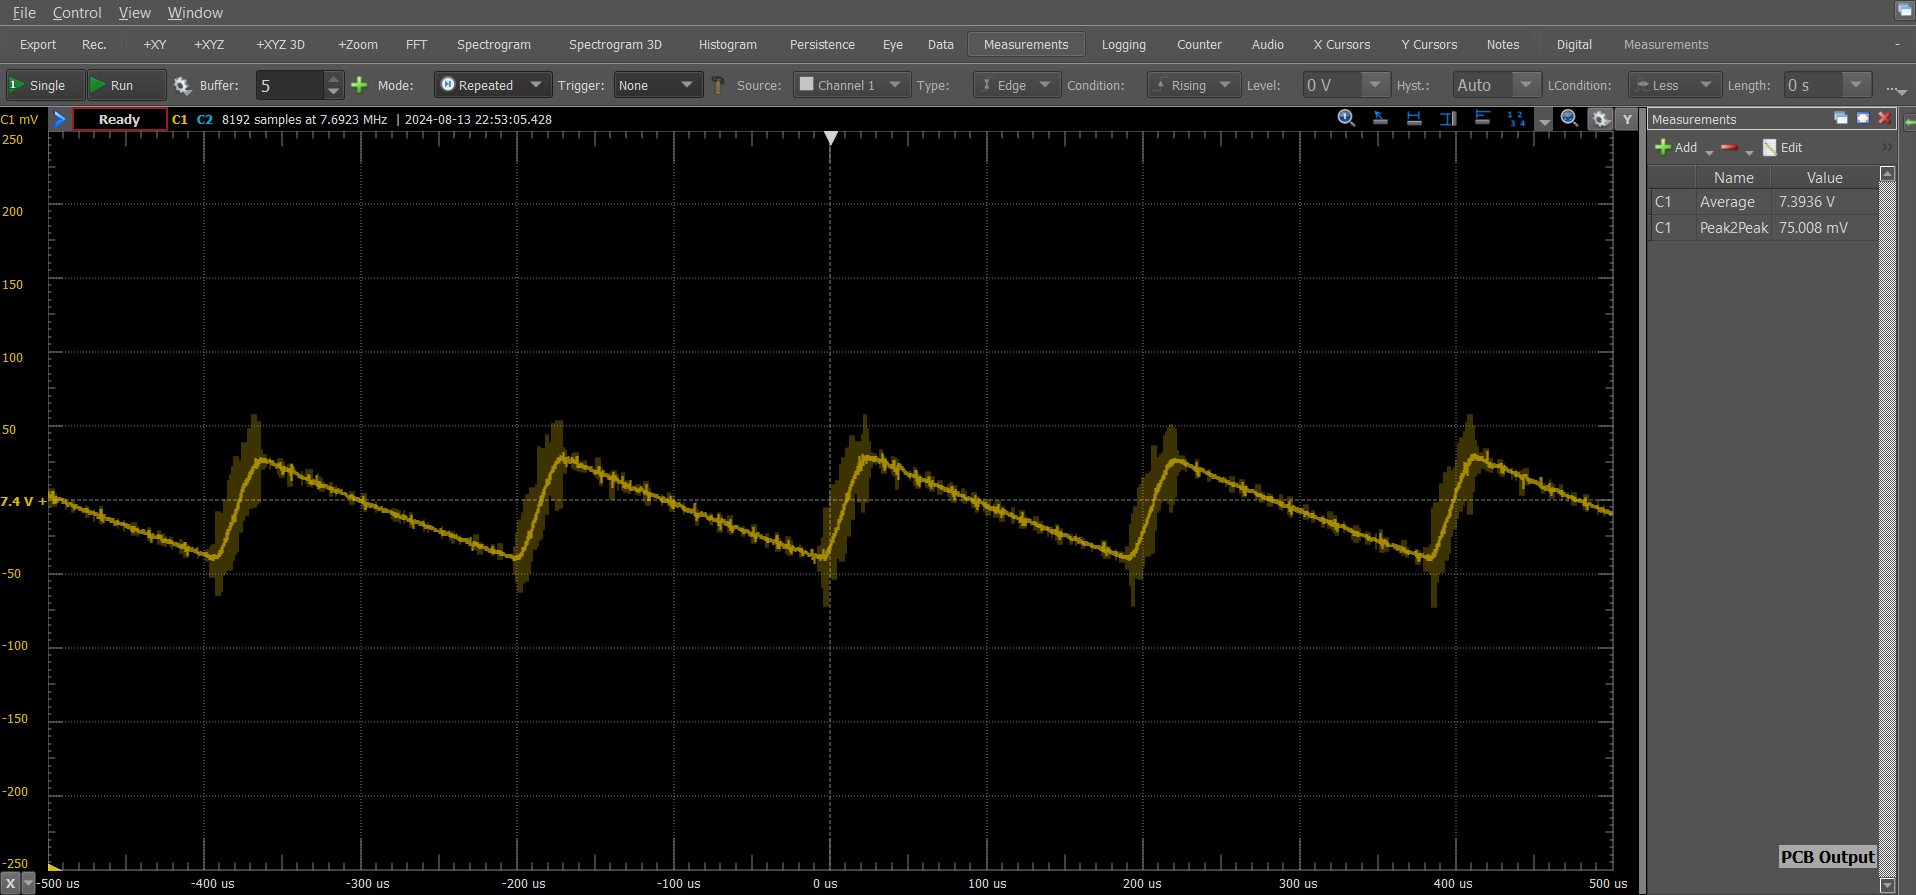
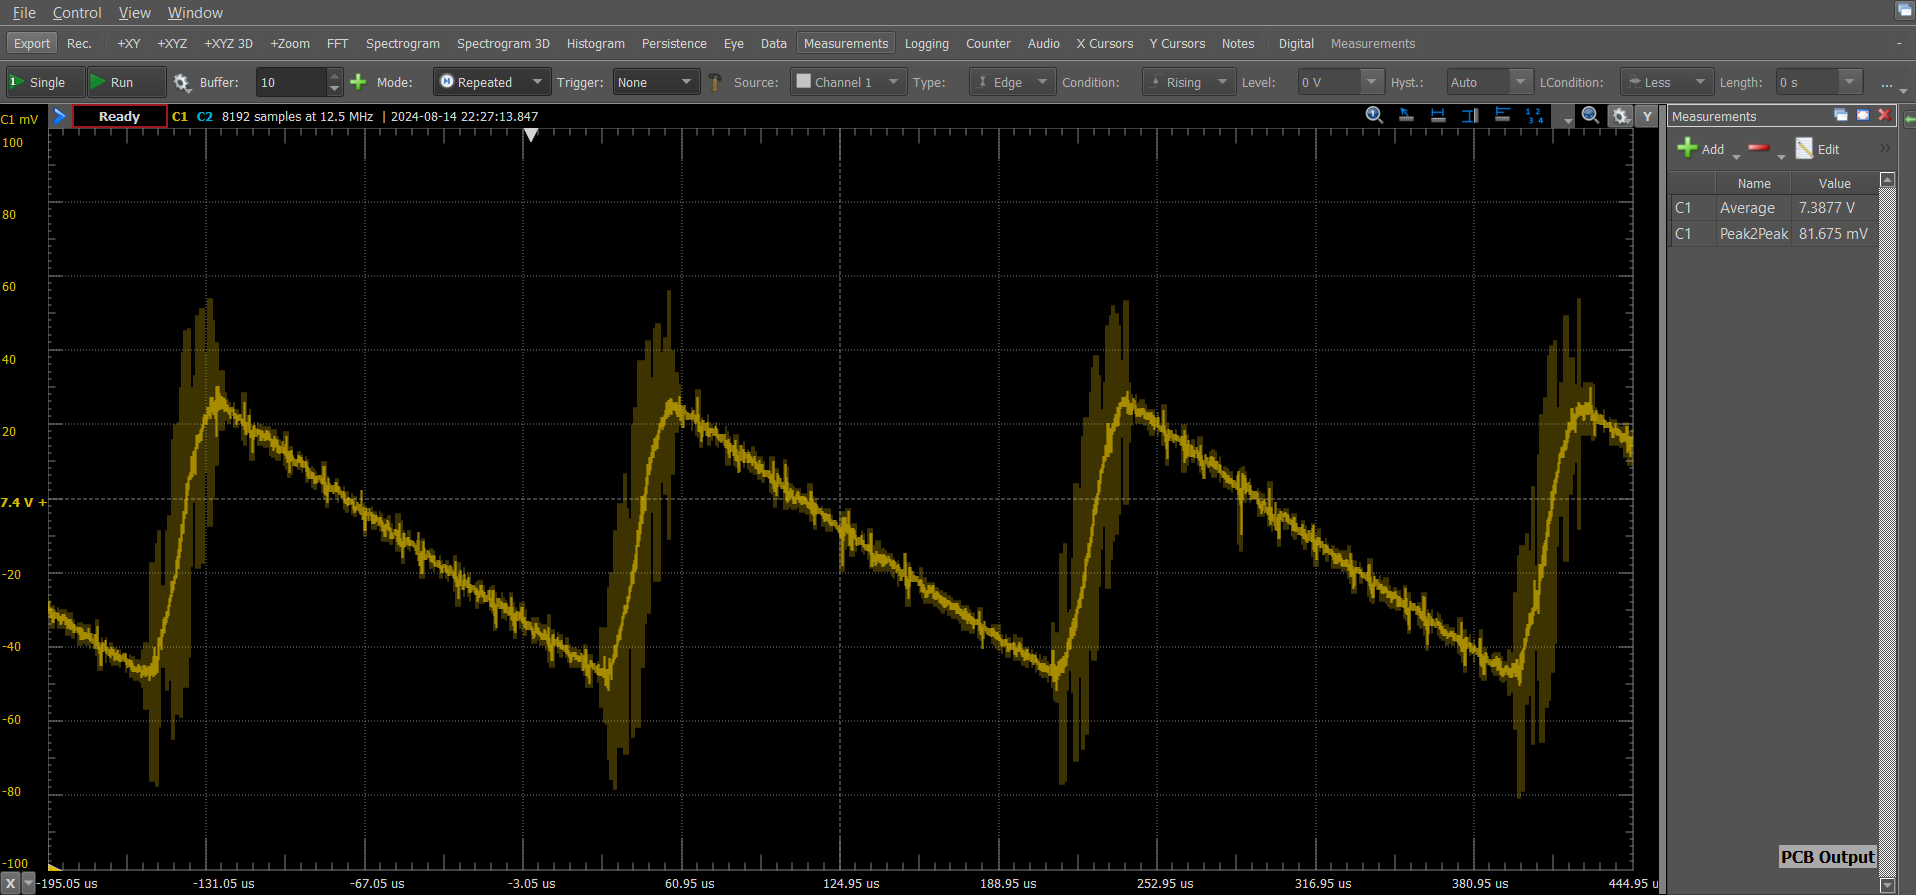
Updated README

diff --git a/README.md b/README.md
@@ -464,12 +464,51 @@ For the PCBWay specification selection I chose the following options:
 <p align="center"><i>Final Product</i></p>
 
 ## Characterization 🔬
-Finally, I wanted to characterize the response of the circuit using my Analog Discovery 2 - USB oscilloscope. 
+Finally, I wanted to characterize the response of the circuit using my Analog Discovery 2 - USB oscilloscope. For my initial test setup, I connected the power input of the PCB to a power supply, configuring it to deliver 12V while limiting the current to 300mA. Additionally, I connected a pair of lithium-ion batteries to the PCB, which were discharged to approximately 7V.
+
+### Efficiency 📈
+To assess the circuit's output efficiency, I conducted the following calculations based on the input and output power.
+
+#### Input
+${P=V\cdot \:I=12V\cdot 0.275A=3.3W}$
+
+#### Output
+${P=V\cdot \:I=7.4\cdot 0.403A=2.9822W}$
+
+${Efficiency=\frac{P_{out}}{P_{in}}\cdot 100=\frac{2.9822}{3.3}\cdot 100=0.9036\:\cdot \:100=90.4\%}$
+<p align="center">
+    <img title="Input Power" alt="Input Power" src="./Characterization/Input_Supply.jpg" width ="75%">
+</p>
+<p align="center"><i>Input Power</i></p>
+
+<p align="center">
+    <img title="Output Current" alt="Output Current" src="./Characterization/Battery_Current_Draw.png" width ="75%">
+</p>
+<p align="center"><i>Output Current</i></p>
+
+### Thermal Imaging 🔥
+I had the opportunity to conduct thermal imaging on the PCB during its operation by utilizing a FLIR thermal camera. As shown in the image, the primary hotspots were the input diode, battery management IC, and LED indicators. After approximately five minutes of operation at room temperature, the system began to stabilize, with peak temperatures reaching 52.4 degrees Celsius.
+
+<p align="center">
+    <img title="Thermal Image" alt="Thermal Image" src="./Characterization/Thermal_Profile.jpg" width ="75%">
+</p>
+<p align="center"><i>Thermal Image</i></p>
+
+### Output Voltage
+The output voltage is well-centered around 7.4V, and the signal is generally acceptable. However, there are a few important observations to consider. First, there are ringing transients at the beginning of each recovery cycle of the converter. Second, the output ripple voltage is approximately 80mV. While this is within an acceptable range, it is slightly higher than desired. To reduce the output voltage ripple in a buck converter, consider selecting inductors with low parasitic capacitance and appropriate inductance values. Additionally, choose output capacitors with low equivalent series resistance (ESR) and equivalent series inductance (ESL). Increasing the output capacitance can also significantly suppress voltage ripple, thereby enhancing overall performance.
 
 <p align="center">
     <img title="Output Voltage" alt="Output Voltage" src="./Characterization/PCB_Output.png" width ="75%">
 </p>
 <p align="center"><i>Output Voltage</i></p>
+
+### Switching Node
+You can observe the switching node in the image below. As specified in the datasheet, the switching frequency is 1 MHz. Furthermore, as mentioned in the previous section, the same ringing transient is evident at both the rising and falling edges of the signal. Ringing on the switching node of a buck converter is primarily caused by parasitic inductances and capacitances. The interaction between these parasitics and the fast switching speeds of the MOSFETs leads to voltage overshoots and ringing, particularly during the diode's reverse recovery phase. While diode characteristics, such as reverse recovery, can affect the severity of ringing, they are not directly related to the diode's refresh speed.
+
+<p align="center">
+    <img title="Switching Node" alt="Switching Node" src="./Characterization/Switch_Node.png" width ="75%">
+</p>
+<p align="center"><i>Switching Node</i></p>
 
 # Resources
 * [Designing a Solar and Li-ion Battery Powered Charger / Power Source Part 1](https://www.youtube.com/watch?v=NaxtGdHR_6E)
